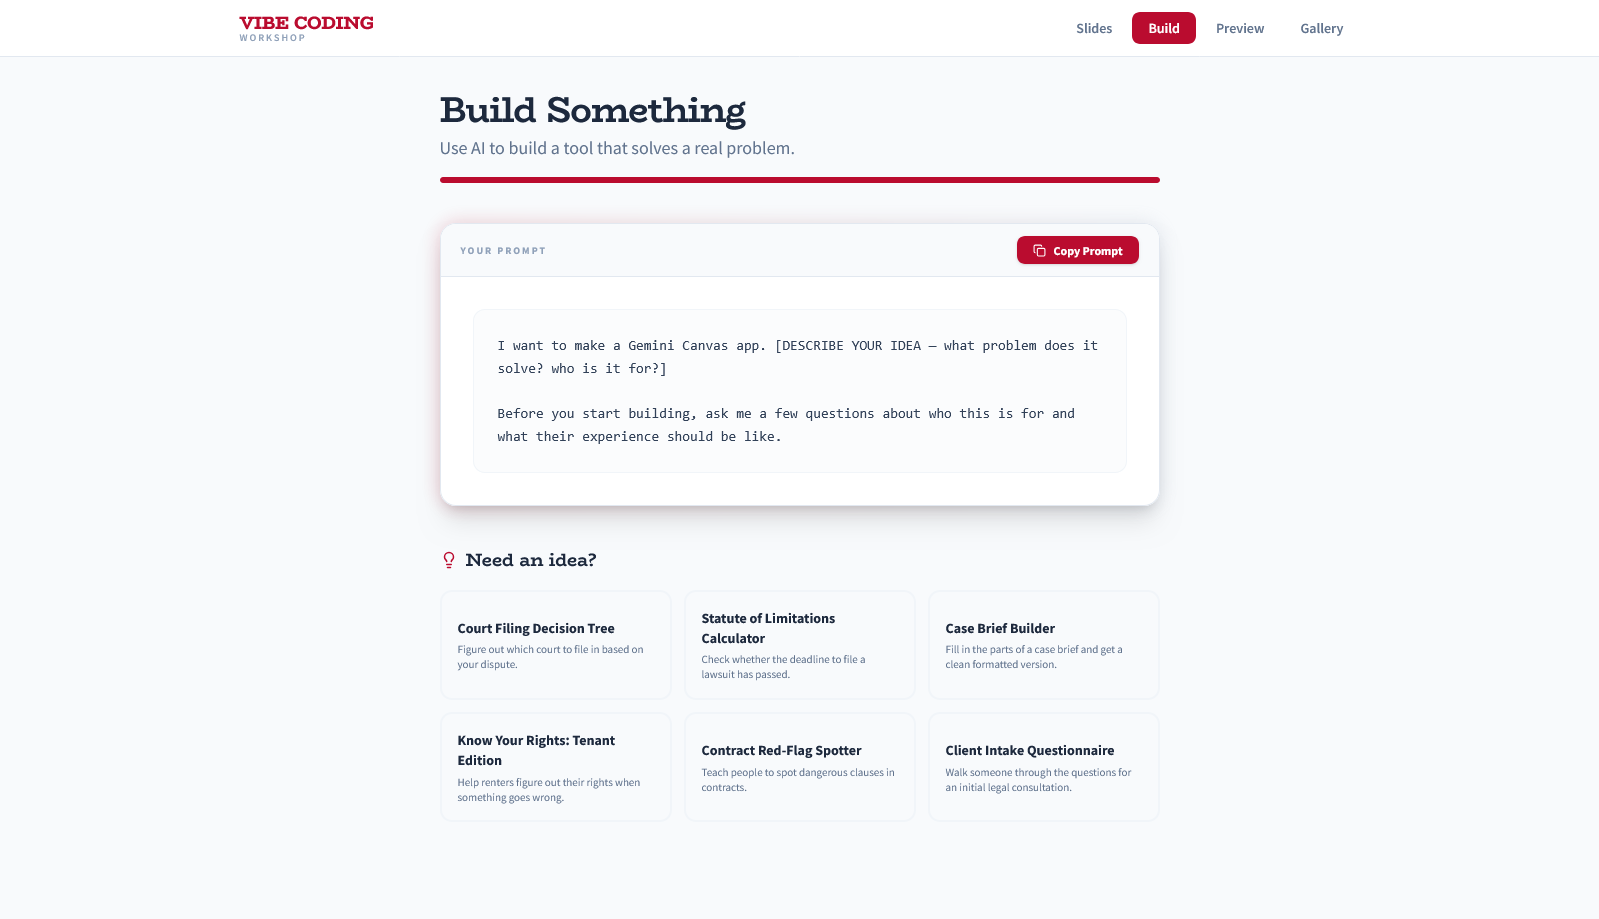
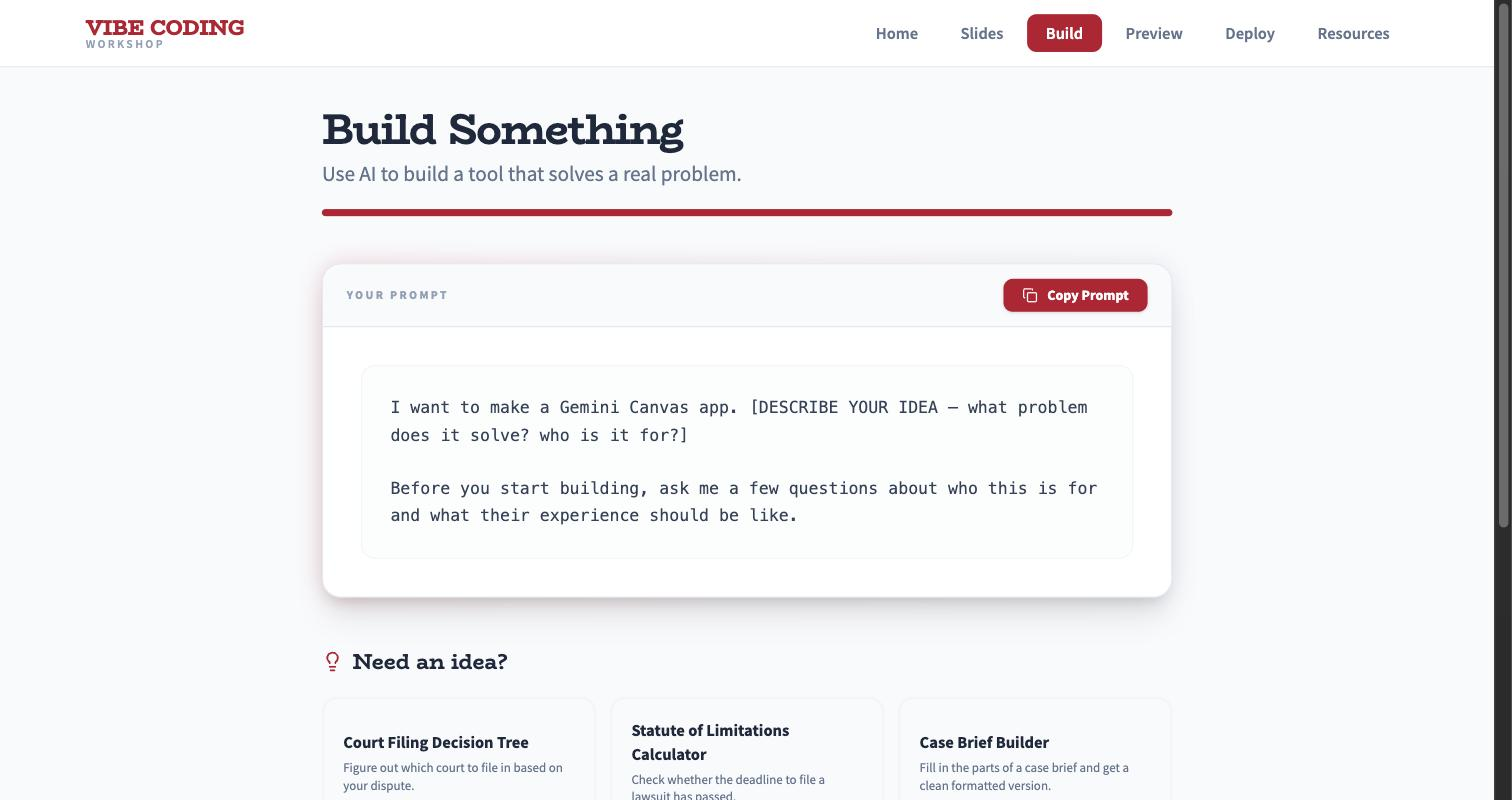
Rewrite README for the audiences that actually read it
The old README opened with a student walkthrough, but students are handed
the live URL and never see the repo. Its real readers are educators who
want to fork it, people who saw a talk and want to look around, and devs
curious about the build — none of whom were served well.

- Lead with the live link and a screenshot; add per-event URLs so a reader
  can see the four configs rather than read about them
- Promote "fork it for your own workshop" to the top section, with the
  customization table pointed at eventConfigs.js and the base path
- Replace the Render deploy instructions with GitHub Pages, including the
  silent base-path failure mode and free alternatives for private repos
- Explain the iframe renderer, which is the genuinely interesting part
- Cut the student tab-by-tab walkthrough; that content lives on the Home
  tab of the live site
- Drop the University of Dayton framing so it reads as a reusable kit

Also replaces workshop-site.png, which still showed the removed Gallery
tab and a stale nav. The new capture is from the live Pages site; it also
appears on a slide, so the fix lands in both places.

Claude-Session: https://claude.ai/code/session_01WrZJS9gbpaDfuzvZ4wS6Jw

diff --git a/README.md b/README.md
@@ -1,70 +1,94 @@
 # Vibe Coding Workshop
 
-A ready-to-run web app for teaching **vibe coding** — building real web apps using AI, no prior coding experience required. Originally designed for ~100 law students at the University of Dayton School of Law, but built to be forked and adapted for any classroom.
+**[▶ Open the live site](https://rlfordon.github.io/vibe-coding-workshop/)**
+
+A workshop kit for teaching **vibe coding** — building working web apps by describing what you want to an AI, with no prior programming experience. It's a single static site that runs an entire session: slides, a prompt launchpad, a live code previewer, a deployment guide, and curated resources.
+
+Built for legal audiences (law students, faculty, and practitioners), but nothing about the machinery is law-specific — swap the prompts and slides and it works for any discipline.
+
+![The workshop site](client/public/workshop-site.png)
 
 ---
 
-## For Students
+## One site, several events
 
-### How the workshop works
+The same deployment serves multiple audiences. Each event config defines its own tabs, slide deck, project ideas, and resources, selected by URL hash:
 
-Everything lives in one app with tabs that walk you through the process:
+| Event | URL | Audience |
+|---|---|---|
+| Workshop | [`/`](https://rlfordon.github.io/vibe-coding-workshop/) | Students — hands-on build session |
+| Faculty | [`/#faculty`](https://rlfordon.github.io/vibe-coding-workshop/#faculty) | Law professors — what AI-assisted development means for teaching |
+| Practice Summit | [`/#practicesummit`](https://rlfordon.github.io/vibe-coding-workshop/#practicesummit) | Practitioners — building tools for legal practice |
+| CALIcon 26 | [`/#calicon26`](https://rlfordon.github.io/vibe-coding-workshop/#calicon26) | Conference session for law faculty |
 
-1. **Slides** — A 23-slide deck covering what vibe coding is and how to do it. Use arrow keys to navigate.
-2. **Build** — Pick from six starter project ideas (tenant rights quiz, case brief builder, contract red-flag spotter, and more), copy a ready-made prompt, and paste it into [Gemini Canvas](https://gemini.google.com) to start building.
-3. **Preview** — Paste your code from Gemini Canvas to instantly see how it looks. Supports plain HTML and React.
-4. **Deploy** — A step-by-step guide to publishing your app to a real website for free.
-5. **Resources** — Articles and guides on vibe coding, secure development, and legal tech.
+Anything unrecognized falls back to the student workshop. There's also [`/#portfolio`](https://rlfordon.github.io/vibe-coding-workshop/#portfolio), a standalone showcase of tools built this way.
 
-### Quick tips
+## What's in a session
 
-- You don't need to install anything — the workshop app runs in your browser
-- The Build tab gives you a prompt template that's designed to work well with Gemini Canvas
-- When you're ready to share, follow the Deploy tab to publish your project at a real URL
+- **Slides** — a self-contained HTML deck with auto-scaling and arrow-key navigation. Add `?present=1` to keep the deck mounted across tab switches so it holds its position while you demo something else.
+- **Build** — a prompt launchpad. One copyable template plus idea cards; clicking a card swaps in a full, ready-to-paste prompt. Lowers the barrier from "stare at a blank box" to "pick a thing and go."
+- **Preview** — paste code straight from Gemini Canvas and see it render. Handles plain HTML *and* React/JSX with imports, resolving libraries from CDN automatically.
+- **Showcase** — finished tools with category filters and an image lightbox, configured per event.
+- **Deploy** — a step-by-step guide for students publishing their own projects.
+- **Resources** — curated links for people who want to keep going afterward.
 
 ---
 
-## For Educators
+## Fork it for your own workshop
 
-This project is open for you to fork and adapt for your own workshops. Here's what you'd want to customize:
-
-### What to change
+The site is fully static, so a fork costs nothing to host. Everything you'd want to change lives in a handful of files:
 
 | What | Where | Notes |
 |------|-------|-------|
-| **Slide content** | `client/public/slides.html` | Self-contained HTML file — edit directly. 23 slides with auto-scaling. |
-| **Project ideas & prompts** | `client/src/PromptWizard.jsx` | Array of idea cards at the top of the file. Each has a title, description, and a full prompt. Swap in ideas relevant to your discipline. |
-| **Resource links** | `client/src/Resources.jsx` | Array of curated links at the top of the file. |
-| **Deploy guide** | `client/src/Deploy.jsx` | Step-by-step deployment instructions shown to students. |
-| **Branding & colors** | `client/src/App.jsx` | The primary color (`#BA0C2F` scarlet) and fonts (BioRhyme + Source Sans Pro) are set inline. |
-| **Events & tabs** | `client/src/eventConfigs.js` | Each event config defines its own tabs, showcase items, and resources. Select one by URL hash (`/#faculty`); no hash falls back to `workshop`. |
-| **Base path** | `client/vite.config.js` | Set `base` to match your repo name for GitHub Pages, or `'/'` for a custom domain. |
-| **Backup handout** | `backup-handout.html` | Offline HTML file with all prompts and the session plan — good to have if the network goes down. |
+| **Events, tabs, ideas, resources** | `client/src/eventConfigs.js` | The main file you'll edit. Each config sets its own tabs, slide deck, Home steps, prompt idea cards, showcase items, and links. Copy an existing config and rename the `id` to add an event. |
+| **Slide content** | `client/public/slides*.html` | Self-contained HTML — edit directly, no build step. One deck per event. |
+| **Base path** | `client/vite.config.js` | Set `base` to `'/<your-repo-name>/'` for GitHub Pages, or `'/'` for a custom domain. |
+| **Branding & colors** | `client/src/App.jsx` | Primary color and fonts are set inline. |
+| **Deploy guide** | `client/src/Deploy.jsx` | The instructions students follow to publish their work. |
+| **Backup handout** | `backup-handout.html` | Offline HTML with all prompts and the session plan — worth having when conference wifi fails. |
 
 ### What you get out of the box
 
-- A **sandboxed iframe renderer** that handles both plain HTML and React/JSX code (with automatic CDN imports), so students can paste code straight from Gemini Canvas
-- A **prompt wizard** that lowers the barrier to getting started — students pick an idea card and get a well-crafted prompt instead of staring at a blank text box
-- A **showcase** of finished tools with category filtering and an image lightbox, configured per event
-- **Multiple event configs** in one deployment — run a student workshop, a faculty talk, and a conference session from the same URL with different hashes
-- **Zero-cost hosting** — the app is fully static, so GitHub Pages serves it free with no server, database, or cold starts
+- A **sandboxed iframe renderer** that takes AI-generated code — plain HTML or React/JSX with imports — and renders it live, with no per-student setup
+- A **prompt launchpad** that hands people a well-crafted starting prompt instead of a blank text box
+- **Multiple event configs** in one deployment, so a student workshop, a faculty talk, and a conference session share a URL and differ by hash
+- **Zero-cost hosting** — no server, no database, no cold starts
 
 ---
 
-## Running It Yourself
+## Deploying
 
-### Prerequisites
+`.github/workflows/deploy.yml` lints, builds, and publishes to GitHub Pages on every push to `master`.
 
-- [Node.js](https://nodejs.org/) 18+
+1. Fork the repo
+2. Set `base` in `client/vite.config.js` to `'/<your-repo-name>/'`
+3. In your fork: **Settings → Pages → Build and deployment → Source → GitHub Actions**
+4. Push to `master`
 
-### Install & run
+The site lands at `https://<your-username>.github.io/<your-repo-name>/`.
+
+> **Base-path gotcha.** GitHub Pages serves from a subpath, and Vite rewrites imports and `index.html` but never runtime string literals. Root-relative paths in JS (`/slides.html`, `/showcase/foo.png`) would 404 without help, and the build succeeds either way — so this fails silently. `client/src/assetUrl.js` rebases them at the point of use; route any new root-relative asset path through it. On a custom domain with `base: '/'`, it becomes a no-op.
+
+**Free Pages hosting requires a public repo.** If you need yours private, a Render Static Site or Cloudflare Pages will host it free instead — change `base` to `'/'` and point the host at `client/` with a `npm run build` / `dist` config.
+
+---
+
+## How it works
+
+**Fully static.** React 19 + Vite + Tailwind v4, compiled to files a CDN can serve. There is no backend, no database, and no API. Earlier versions ran an Express + SQLite server for a project gallery where students submitted and voted on work; that was removed in favor of the static Showcase, which is why hosting is now free.
+
+**Routing** is hash-based (`/#faculty`), which is what lets an SPA live on Pages without 404 rewrite rules. `?present=1` is the only query parameter.
+
+**The iframe renderer** (`SandboxedIframe.jsx`) is the interesting part. Students paste whatever the AI gave them, which may be a React component with `import` statements — not something a browser runs directly. `prepareHtml()` parses the imports, strips them, maps each to a CDN `<script>` plus a `const { … } = window.Global` shim, and wraps the result in an HTML shell with React, Babel standalone, and Tailwind. It renders in a sandboxed iframe via a Blob URL.
+
+### Running locally
 
 ```bash
 cd client && npm install
 npm run dev
 ```
 
-Open **http://localhost:5173**. There is no server to start — the app is fully static.
+Opens at **http://localhost:5173**. There's no server to start.
 
 To check a production build the way it will actually be served:
 
@@ -72,70 +96,40 @@ To check a production build the way it will actually be served:
 cd client && npm run build && npm run preview
 ```
 
----
-
-## Deploying to GitHub Pages
-
-`.github/workflows/deploy.yml` builds `client/` and publishes `client/dist` on every push to `master`.
-
-1. Fork this repo and push to GitHub
-2. Set `base` in `client/vite.config.js` to `'/<your-repo-name>/'`
-3. In the repo, go to **Settings → Pages → Build and deployment → Source** and choose **GitHub Actions**
-4. Push to `master` — the workflow lints, builds, and deploys
-
-The site lands at `https://<your-username>.github.io/<your-repo-name>/`.
-
-> **Base path gotcha:** Pages serves the app from a subpath, so root-relative asset
-> paths in JS (`/slides.html`, `/showcase/foo.png`) would 404. Vite rewrites imports
-> and `index.html`, but never runtime string literals. `client/src/assetUrl.js`
-> rebases those at the point of use — route any new root-relative asset path
-> through it. On a custom domain, set `base` to `'/'` and this stops mattering.
-
----
-
-## Project Structure
+### Project structure
 
 ```
-client/                         React frontend (Vite + React 19 + Tailwind v4)
+client/
 ├── src/
-│   ├── App.jsx                 Tab-based SPA shell
+│   ├── App.jsx                 Tab shell + hash routing
+│   ├── eventConfigs.js         Per-event tabs, ideas, showcase, resources
+│   ├── Home.jsx                Landing page with step-by-step navigation
+│   ├── Slides.jsx              Embedded slide deck
 │   ├── PromptWizard.jsx        Build tab — prompt template + idea cards
 │   ├── Preview.jsx             Paste-and-render previewer
+│   ├── SandboxedIframe.jsx     Shared renderer (HTML + React/JSX via CDN)
 │   ├── Showcase.jsx            Tool showcase with filters + lightbox
 │   ├── Deploy.jsx              Deployment guide for students
 │   ├── Resources.jsx           Curated links
-│   ├── SandboxedIframe.jsx     Shared iframe renderer (HTML + React/JSX)
-│   ├── Slides.jsx              Embedded slide deck
-│   ├── eventConfigs.js         Per-event tabs, showcase items, resources
-│   └── assetUrl.js             Rebases asset paths onto the Pages base path
-├── public/
-│   ├── slides.html             Self-contained slide deck
-│   └── showcase/               Screenshots for showcase cards
-.github/workflows/deploy.yml    Builds and publishes to GitHub Pages
+│   └── assetUrl.js             Rebases asset paths onto the base path
+└── public/
+    ├── slides*.html            Self-contained decks, one per event
+    └── showcase/               Screenshots for showcase cards
+.github/workflows/deploy.yml    Build and publish to GitHub Pages
 backup-handout.html             Offline fallback handout
 ```
 
-## Tech Stack
-
-| | |
-|---|---|
-| **Frontend** | React 19, Vite, Tailwind CSS v4 |
-| **Backend** | None — fully static |
-| **Hosting** | GitHub Pages (via GitHub Actions) |
-
----
-
-## Useful Commands
+### Commands
 
 ```bash
 cd client && npm run dev         # Dev server with hot reload
-cd client && npm run build       # Production build
+cd client && npm run build       # Production build → client/dist/
 cd client && npm run preview     # Serve the build at the real base path
-cd client && npm run lint        # Lint frontend
+cd client && npm run lint        # Lint
 ```
 
 ---
 
 ## License
 
-[MIT License](LICENSE) — fork it, adapt it, teach with it.
+[MIT](LICENSE) — fork it, adapt it, teach with it.
